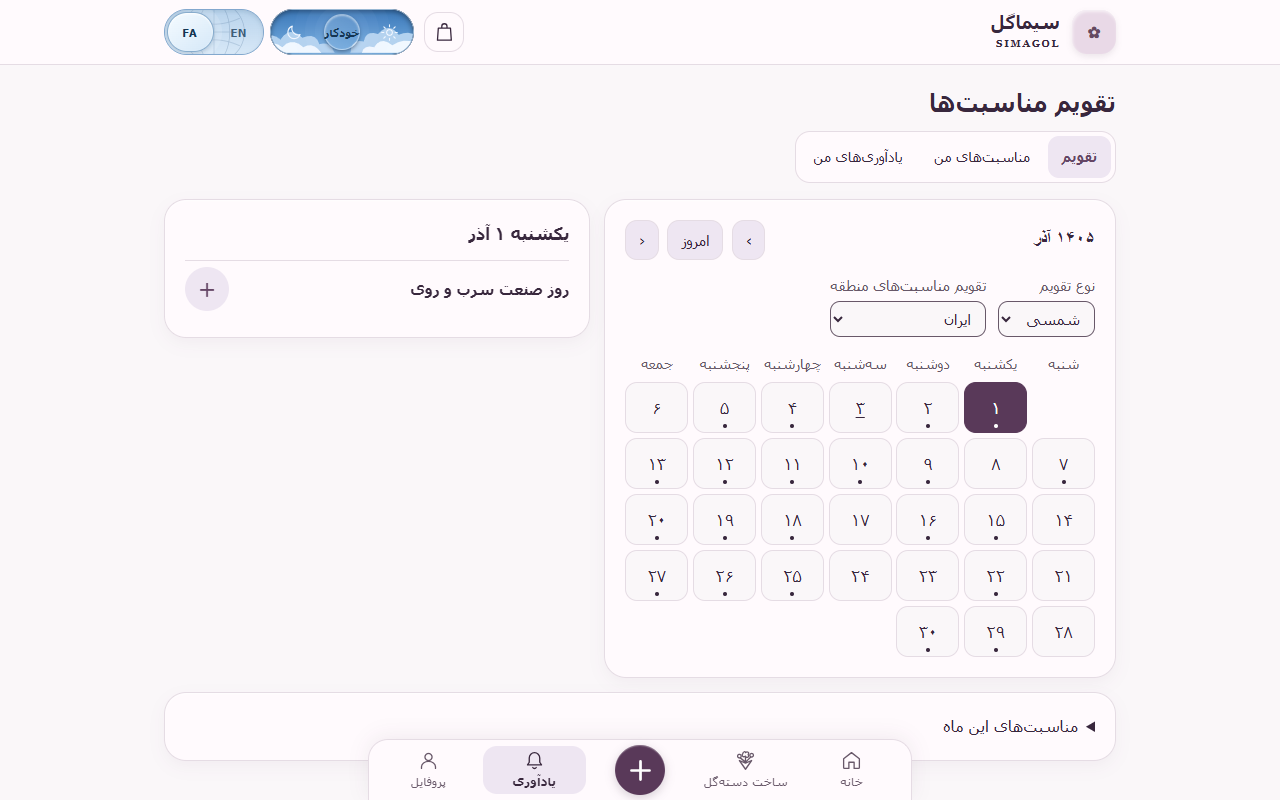
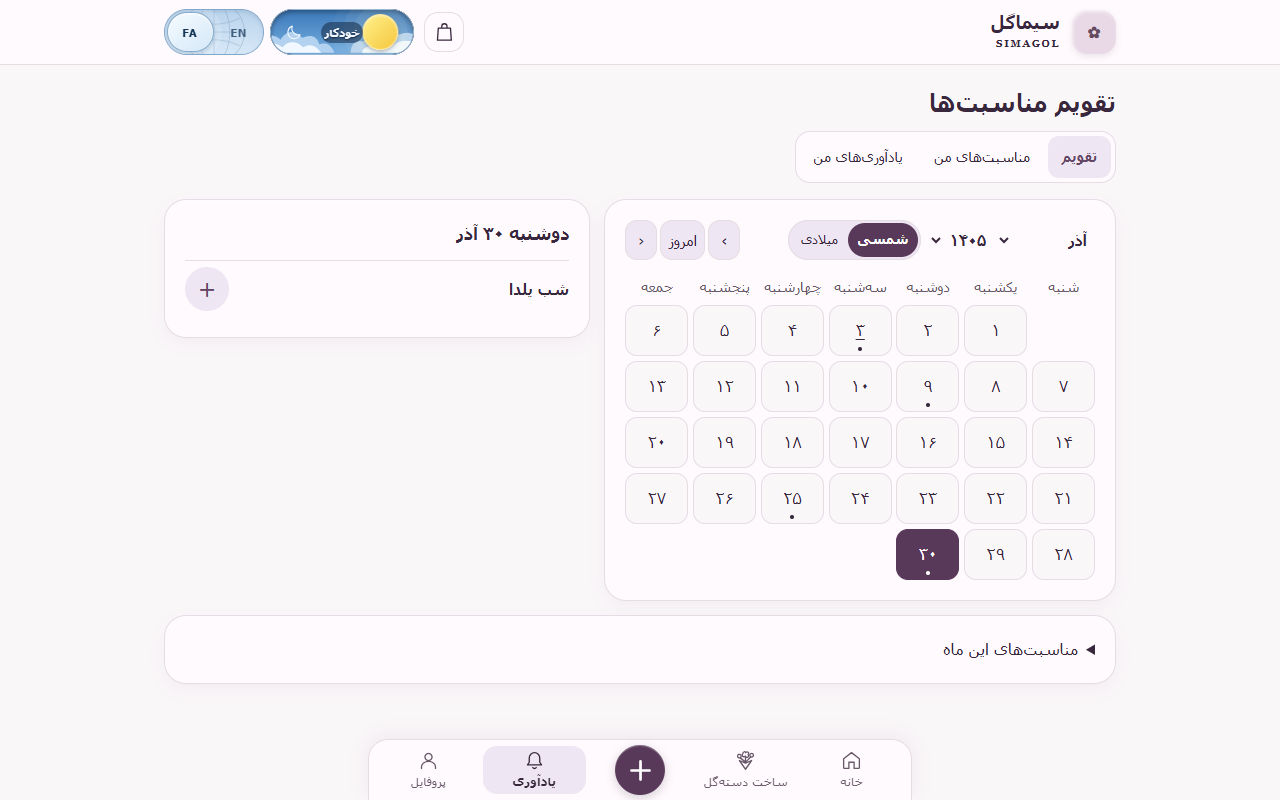
feat: streamline calendar navigation and curate Iranian occasions

diff --git a/public/planner/iran.js b/public/planner/iran.js
@@ -448,3 +448,58 @@ export const iranRules = [
 ];
 // Month lengths from the Iranian calendar tables, starting at JDN 2396005 (AH 1264).
 export const lunarYearMasks = [2711,2730,2773,1428,2986,1461,1206,2647,1323,1699,1745,2793,1386,2669,1325,3221,3658,3749,1716,2490,1339,603,1323,2645,2730,2905,1396,2426,1210,2650,3380,3761,1752,2796,1372,2670,1334,2726,2898,2985,948,2522,1370,2730,3402,3749,1874,2921,1460,2733,1622,3366,3730,3913,1876,2906,2459,1179,2379,2853,3410,3434,1389,694,2615,1179,1613,1706,2901,860,2414,1199,599,811,1429,938,1497,730,2397,683,1365,1737,1764,2922,1461,694,2454,3402,3525,1874,1957,874,2477,1357,2709,3401,3493,1458,2773,1366,2647,1323,1685,2890,2917,1387,685,1358,3223,1355,1701,1746,2777,1245,599,2349,2709,2898,2921,884,2422,1207,599,1355,1701,1746,2794,1261,621,2357,3365,3409,2985,1492,2741,1334,2711,1610,3749,1874,2985,1461,693,2646,3366,3667,1705,3412,3414,2647,1191,3143,3366,3668,3494,1383,694,2359,1175,1621,2730,2917,748,2421,1134,2614,3238,3410,3538,1493,730,1373,1195,1683,1865,1956,2994,1461,694,1626,3370,3732,3793,1768,2794,2396];
+
+// Solar dates follow the AncientIran collection in persian-calendar/events.
+// Stable IDs allow existing reminders to keep their original recurrence.
+export const heritageRules = [
+  {"id":"ir-nowruz","name":{"fa":"نوروز","en":"Nowruz"},"calendar":"Persian","month":1,"day":1,"rule":"simple"},
+  {"id":"ir-noruz-bozorg","name":{"fa":"نوروز بزرگ","en":"Great Nowruz"},"calendar":"Persian","month":1,"day":6,"rule":"simple"},
+  {"id":"ir-pir-herisht","name":{"fa":"آیین پیر هریشت","en":"Pir-e Herisht pilgrimage"},"calendar":"Persian","month":1,"day":7,"rule":"simple"},
+  {"id":"ir-skqt4","name":{"fa":"سیزدهبهدر","en":"Sizdah Bedar"},"calendar":"Persian","month":1,"day":13,"rule":"simple"},
+  {"id":"ir-farvardinegan","name":{"fa":"فروردینگان","en":"Farvardinegan"},"calendar":"Persian","month":1,"day":19,"rule":"simple"},
+  {"id":"ir-ordibeheshtegan","name":{"fa":"اردیبهشتگان","en":"Ordibeheshtegan"},"calendar":"Persian","month":2,"day":2,"rule":"simple"},
+  {"id":"ir-midyozarem","name":{"fa":"چلهٔ بهار","en":"Spring Gahanbar"},"calendar":"Persian","month":2,"day":10,"rule":"simple"},
+  {"id":"ir-panjah-bedar","name":{"fa":"پنجاهبهدر","en":"Panjah Bedar"},"calendar":"Persian","month":2,"day":19,"rule":"simple"},
+  {"id":"ir-sroytn","name":{"fa":"بزرگداشت فردوسی","en":"Ferdowsi Day"},"calendar":"Persian","month":2,"day":25,"rule":"simple"},
+  {"id":"ir-khordadegan","name":{"fa":"خردادگان","en":"Khordadegan"},"calendar":"Persian","month":3,"day":4,"rule":"simple"},
+  {"id":"ir-chak-chak","name":{"fa":"آیین پیر سبز و ستیپیر","en":"Chak Chak and Seti Pir observance"},"calendar":"Persian","month":3,"day":24,"rule":"simple"},
+  {"id":"ir-abpashun","name":{"fa":"جشن آبپاشونک","en":"Abpashunak"},"calendar":"Persian","month":3,"day":29,"rule":"simple"},
+  {"id":"ir-narestaneh","name":{"fa":"آیین پیر نارستانه","en":"Pir-e Narestaneh pilgrimage"},"calendar":"Persian","month":4,"day":2,"rule":"simple"},
+  {"id":"ir-midyoshem","name":{"fa":"گاهنبار میدیوشهم","en":"Maidyoshahem"},"calendar":"Persian","month":4,"day":8,"rule":"simple"},
+  {"id":"ir-tirgan","name":{"fa":"تیرگان","en":"Tirgan"},"calendar":"Persian","month":4,"day":10,"rule":"simple"},
+  {"id":"ir-pars-banu","name":{"fa":"آیین پارسبانو","en":"Pars Banu pilgrimage"},"calendar":"Persian","month":4,"day":13,"rule":"simple"},
+  {"id":"ir-amordadegan","name":{"fa":"امردادگان","en":"Amordadegan"},"calendar":"Persian","month":5,"day":3,"rule":"simple"},
+  {"id":"ir-summer-chelleh","name":{"fa":"چلهٔ تابستان","en":"Summer Chelleh"},"calendar":"Persian","month":5,"day":6,"rule":"simple"},
+  {"id":"ir-naraki","name":{"fa":"آیین پیر نارکی","en":"Pir-e Naraki pilgrimage"},"calendar":"Persian","month":5,"day":12,"rule":"simple"},
+  {"id":"ir-shahrivargan","name":{"fa":"شهریورگان","en":"Shahrivargan"},"calendar":"Persian","month":5,"day":30,"rule":"simple"},
+  {"id":"ir-khazan","name":{"fa":"جشن خزان","en":"Khazan"},"calendar":"Persian","month":6,"day":3,"rule":"simple"},
+  {"id":"ir-paitishahem","name":{"fa":"گاهنبار پتیهشهیم","en":"Paitishahem"},"calendar":"Persian","month":6,"day":21,"rule":"simple"},
+  {"id":"ir-mehregan","name":{"fa":"مهرگان","en":"Mehregan"},"calendar":"Persian","month":7,"day":10,"rule":"simple"},
+  {"id":"ir-abangan","name":{"fa":"آبانگان","en":"Abangan"},"calendar":"Persian","month":8,"day":4,"rule":"simple"},
+  {"id":"ir-cyrus","name":{"fa":"روز کوروش بزرگ","en":"Cyrus the Great Day"},"calendar":"Persian","month":8,"day":7,"rule":"simple"},
+  {"id":"ir-paeizaneh","name":{"fa":"جشن پاییزانه","en":"Autumn festival"},"calendar":"Persian","month":8,"day":9,"rule":"simple"},
+  {"id":"ir-galeshi","name":{"fa":"جشن گالشی","en":"Galeshi festival"},"calendar":"Persian","month":8,"day":21,"rule":"simple"},
+  {"id":"ir-azargan","name":{"fa":"آذرگان","en":"Azargan"},"calendar":"Persian","month":9,"day":3,"rule":"simple"},
+  {"id":"ir-deygan-one","name":{"fa":"دیگان نخست","en":"First Deygan"},"calendar":"Persian","month":9,"day":25,"rule":"simple"},
+  {"id":"ir-ffgm1b","name":{"fa":"شب یلدا","en":"Yalda Night"},"calendar":"Persian","month":9,"day":30,"rule":"simple"},
+  {"id":"ir-deygan-two","name":{"fa":"دیگان دوم","en":"Second Deygan"},"calendar":"Persian","month":10,"day":2,"rule":"simple"},
+  {"id":"ir-sir-sor","name":{"fa":"جشن سیر و سور","en":"Sir-o-Sur"},"calendar":"Persian","month":10,"day":8,"rule":"simple"},
+  {"id":"ir-deygan-three","name":{"fa":"دیگان سوم","en":"Third Deygan"},"calendar":"Persian","month":10,"day":9,"rule":"simple"},
+  {"id":"ir-deygan-four","name":{"fa":"دیگان چهارم","en":"Fourth Deygan"},"calendar":"Persian","month":10,"day":17,"rule":"simple"},
+  {"id":"ir-bahmangan","name":{"fa":"بهمنگان","en":"Bahmangan"},"calendar":"Persian","month":10,"day":26,"rule":"simple"},
+  {"id":"ir-nosareh","name":{"fa":"نوسره","en":"Nosareh"},"calendar":"Persian","month":10,"day":29,"rule":"simple"},
+  {"id":"ir-midwinter","name":{"fa":"جشن میانهٔ زمستان","en":"Midwinter festival"},"calendar":"Persian","month":11,"day":9,"rule":"simple"},
+  {"id":"ir-sadeh","name":{"fa":"سده","en":"Sadeh"},"calendar":"Persian","month":11,"day":10,"rule":"simple"},
+  {"id":"ir-esfandegan","name":{"fa":"سپندارمذگان","en":"Sepandarmazgan"},"calendar":"Persian","month":11,"day":29,"rule":"simple"},
+  {"id":"ir-goldan","name":{"fa":"جشن گلدان","en":"Goldan festival"},"calendar":"Persian","month":12,"day":14,"rule":"simple"},
+  {"id":"ir-chaharshanbe-suri","name":{"fa":"چهارشنبهسوری","en":"Chaharshanbe Suri"},"calendar":"Persian","month":12,"weekday":4,"offset":-1,"rule":"last weekday of month"},
+  {"id":"ir-rnfjva","name":{"fa":"نوروز","en":"Nowruz"},"calendar":"Persian","month":1,"day":2,"rule":"simple"},
+  {"id":"ir-rnfjva-1-3","name":{"fa":"نوروز","en":"Nowruz"},"calendar":"Persian","month":1,"day":3,"rule":"simple"},
+  {"id":"ir-rnfjva-1-4","name":{"fa":"نوروز","en":"Nowruz"},"calendar":"Persian","month":1,"day":4,"rule":"simple"},
+  {"id":"ir-wv38c9","name":{"fa":"روز پدر","en":"Father's Day"},"calendar":"Hijri","month":7,"day":13,"rule":"simple"},
+  {"id":"ir-agc6u0","name":{"fa":"روز مادر","en":"Mother's Day"},"calendar":"Hijri","month":6,"day":20,"rule":"simple"},
+  {"id":"ir-1rnj1yw","name":{"fa":"روز جوان","en":"Youth Day"},"calendar":"Hijri","month":8,"day":11,"rule":"simple"},
+  {"id":"ir-majnsg","name":{"fa":"روز پرستار","en":"Nurses' Day"},"calendar":"Hijri","month":5,"day":5,"rule":"simple"},
+  {"id":"ir-v9ozm6","name":{"fa":"روز جانباز","en":"Veterans' Day"},"calendar":"Hijri","month":8,"day":4,"rule":"simple"},
+  {"id":"ir-imu9zk","name":{"fa":"روز دختر","en":"Girls' Day"},"calendar":"Hijri","month":11,"day":1,"rule":"simple"}
+];

diff --git a/public/planner/app.js b/public/planner/app.js
@@ -133,7 +133,7 @@ async function refreshGreeting(){
   accountTheme(me?.prefs);if(me?.prefs?.lang)lang=me.prefs.lang;
   try{
     model=id?loadPlanner(localStorage,new Date(),id):newPlanner();
-    if(model.region==='IN')model.region='IR';
+
     if(info){
       blocked='';
       for(const pending of model.outbox||[]){
@@ -221,7 +221,10 @@ function appearance() {
   $('#previous').textContent=lang==='fa'?'›':'‹'; $('#previous').ariaLabel=text('previous');
   $('#next').textContent=lang==='fa'?'‹':'›'; $('#next').ariaLabel=text('next');
   $('.planner-views').setAttribute('aria-label',text('title'));
-  $('#calendar-system').value=calendarSystem();$('#prefs').hidden=!owner;
+  $('#calendar-system').setAttribute('aria-label',text('system'));
+  $('#jump-month').ariaLabel=lang==='fa'?'ماه':'Month';
+  $('#jump-year').ariaLabel=lang==='fa'?'سال':'Year';
+  $('#prefs').hidden=!owner;
   $('#sms-settings').hidden=!verified;$('#sms-phone').hidden=!smsAvailable;$('#sms-help').hidden=smsAvailable;
   if(!verified||!smsAvailable)$('#sms-code').hidden=true;$('#verified').textContent=phone;
   $('#legacy').hidden=!verified||!localStorage.getItem('simagol.planner.v1')||!!localStorage.getItem('simagol.planner.imported');
@@ -250,14 +253,40 @@ function holidayRow(h,includeDate=true) {
   return '<article class="occasion-line"><div><strong>'+escape(title(h))+'</strong>'+
     (includeDate?'<small>'+escape(dateText(h.date))+'</small>':'')+'</div><button type="button" class="occasion-add" data-'+action+'="'+escape(value)+'" aria-label="'+escape(label)+'" title="'+escape(label)+'">'+(existing?'✓':'+')+'</button></article>';
 }
+const rangeStart='1900-01-01',rangeEnd='2100-12-31';
+function updateMonthControls(y,m,system){
+  const [minYear,minMonth]=calendarParts(rangeStart,system),[maxYear,maxMonth]=calendarParts(rangeEnd,system);
+  const months=$('#jump-month'),years=$('#jump-year');
+  const firstMonth=y===minYear?minMonth:1,lastMonth=y===maxYear?maxMonth:12;
+  const monthKey=[lang,system,firstMonth,lastMonth].join('-');
+  if(months.dataset.key!==monthKey){
+    months.replaceChildren();
+    for(let n=firstMonth;n<=lastMonth;n++)months.add(new Option(dateText(monthStart(y,n,system),{month:'long'}),n));
+    months.dataset.key=monthKey;
+  }
+  const yearKey=lang+system;
+  if(years.dataset.key!==yearKey){
+    years.replaceChildren();
+    for(let n=minYear;n<=maxYear;n++)years.add(new Option(number(n).replace(/[٬,]/g,''),n));
+    years.dataset.key=yearKey;
+  }
+  months.value=m;years.value=y;
+  $('#calendar-system input[value="'+system+'"]').checked=true;
+}
+function jumpTo(y,m){
+  const system=calendarSystem(),day=calendarParts(selected,system)[2];
+  const date=addDays(monthStart(y,m,system),Math.min(day,monthLength(y,m,system))-1);
+  displayDate(date<rangeStart?rangeStart:date>rangeEnd?rangeEnd:date);
+  calendar();
+}
 function calendar() {
   const system=calendarSystem();
   const [y,m]=calendarParts(selected,system);
   const first=monthStart(y,m,system),last=monthLength(y,m,system);
   const end=addDays(first,last-1),gregorianMonths=new Set([first.slice(0,7),end.slice(0,7)]);
-  const rows=[...gregorianMonths].flatMap(key=>{const [year,month]=key.split('-').map(Number);return eventsInMonth({year,month,region:model.region,events:model.entries});}).filter(r=>r.date>=first&&r.date<=end);
+  const rows=[...gregorianMonths].flatMap(key=>{const [year,month]=key.split('-').map(Number);return eventsInMonth({year,month,region:'IR',events:model.entries});}).filter(r=>r.date>=first&&r.date<=end);
   const today=localDate(new Date(),model.timeZone);
-  $('#region').value=model.region;
+  updateMonthControls(y,m,system);
   $('#month-title').textContent=dateText(first,{month:'long',year:'numeric'});
   $('#previous').disabled=first<='1900-01-01';$('#next').disabled=end>='2100-12-31';
   const start=system==='persian'?6:0;
@@ -268,7 +297,7 @@ function calendar() {
     const date=addDays(first,day-1);
     const count=rows.filter(x=>x.date===date && !(x.source==='holiday' && model.entries.some(e=>e.holidayId===x.id))).length;
     const label=dateText(date)+(count?' · '+number(count)+' '+text('dailyEvents'):'');
-    cells.push('<button type="button" data-day="'+date+'" aria-label="'+escape(label)+'" aria-pressed="'+(date===selected)+'" '+
+    cells.push('<button type="button" '+(date<rangeStart||date>rangeEnd?'disabled ':'')+'data-day="'+date+'" aria-label="'+escape(label)+'" aria-pressed="'+(date===selected)+'" '+
       (date===today?'aria-current="date" ':'')+(count?'class="has-events"':'')+'>'+number(day)+'</button>');
   }
   $('#days').innerHTML=cells.join('');
@@ -278,7 +307,7 @@ function calendar() {
   $('#regional').innerHTML=rows.filter(x=>x.source==='holiday').map(h=>holidayRow(h)).join('')||text('noDay');
   $('#sheet-title').textContent=$('#selected-title').textContent;
   $('#sheet-events').innerHTML=$('#selected').innerHTML;
-  $('#coverage').textContent=model.region==='IR'&&end>'2027-03-20'?text('coverage'):'';
+  $('#coverage').textContent=end>'2027-03-20'?text('coverage'):'';
 
 }
 function inbox() {
@@ -344,14 +373,14 @@ function scanAlerts() {
   if (commit(s=>collectAlerts(s,new Date(),dueAlerts)) && count!==model.inbox.length) inbox();
 }
 function moveMonth(delta) {
-  const sys=calendarSystem(),[y,m]=calendarParts(selected,sys);displayDate(monthStart(y,m+delta,sys));calendar();
+  const sys=calendarSystem(),[y,m]=calendarParts(selected,sys);const [nextYear,nextMonth]=calendarParts(monthStart(y,m+delta,sys),sys);jumpTo(nextYear,nextMonth);
 }
 const drawControls=appearanceControls(async prefs=>{
   lang=prefs.lang;appearance();sync();
   if(verified)try{await api('profile','POST',{prefs});}catch(e){announce(e.message);}
 });
 $('#calendar-system').onchange=e=>{localStorage.setItem('simagol.calendar',e.target.value);render();};
-$('#region').onchange=e=>{model.region=e.target.value;if(owner)commit(s=>({...s,region:e.target.value}));calendar();};
+$('#jump-month').onchange=$('#jump-year').onchange=()=>jumpTo(Number($('#jump-year').value),Number($('#jump-month').value));
 let activeView='calendar';
 let plannerReady=false;
 function displayView(){

diff --git a/public/planner/planner.css b/public/planner/planner.css
@@ -13,8 +13,7 @@
 .section-top, .actions, .month-actions, .row-actions { display: flex; align-items: center; gap: .55rem; flex-wrap: wrap; }
 .section-top { justify-content: space-between; margin-block-end: .8rem; }
 .section-top h2 { margin: 0; }
-.region-label, #prefs label { display: grid; gap: .25rem; color: var(--muted); font-size: .91rem; }
-.region-label { width: fit-content; margin-block: .75rem; }
+#prefs label { display: grid; gap: .25rem; color: var(--muted); font-size: .91rem; }
 select, #prefs input { font: inherit; color: var(--text); background: var(--bg); border: 1px solid var(--muted); border-radius: 10px; padding: .45rem .65rem; }
 .minor, .month-actions button, .row-actions button, .row-actions a {
   display: inline-flex; align-items: center; justify-content: center; min-height: 40px;
@@ -66,8 +65,6 @@ select, #prefs input { font: inherit; color: var(--text); background: var(--bg);
 .regional-list {grid-column:1/-1;margin-bottom:20px!important;}
 .day-summary {position:sticky;top:12px;max-height:65vh;overflow:auto;}
 .day-summary h2,#day-sheet h2 {font-family:inherit;font-size:1.05rem;}
-.calendar-options {display:flex;align-items:end;gap:12px;flex-wrap:wrap;}
-.calendar-options .region-label {margin:0;}
 .occasion-line {display:flex;align-items:center;justify-content:space-between;gap:12px;border-top:1px solid var(--line);padding:6px 0;min-height:48px;}
 .occasion-line strong {font-size:.94rem;font-weight:550;}
 .occasion-line small {display:block;color:var(--muted);}
@@ -76,7 +73,19 @@ select, #prefs input { font: inherit; color: var(--text); background: var(--bg);
 @media(max-width:760px){
   .planner-layout {grid-template-columns:minmax(0,1fr);}
   .day-summary {position:static;max-height:none;}
-  .calendar-options {gap:8px;}
   .planner-views a {padding:0 .6rem;}
   #day-sheet[open] {position:fixed;inset:auto 0 0;margin:0 auto;width:100%;border-radius:20px 20px 0 0;padding-bottom:calc(18px + env(safe-area-inset-bottom));}
 }
+
+.calendar-toolbar {display:flex;align-items:center;flex-wrap:wrap;gap:4px 8px;}
+.calendar-jump,.calendar-toolbar .month-actions {display:flex;align-items:center;gap:3px;}
+.calendar-jump select {min-height:40px;max-width:8.2em;padding:4px;border:0;background:var(--surface);font-family:inherit;font-size:.91rem;font-weight:600;line-height:1.4;}
+.calendar-toolbar .month-actions {margin-inline-start:auto;flex-wrap:nowrap;}
+.calendar-toolbar .month-actions button {min-width:32px;padding:.2rem .45rem;}
+#calendar-system {display:inline-flex;min-width:0;margin:0;padding:2px;border:1px solid var(--line);border-radius:99px;background:var(--hero);}
+#calendar-system label {position:relative;display:block;margin:0;cursor:pointer;}
+#calendar-system input {position:absolute;opacity:0;inset:0;width:100%;height:100%;margin:0;cursor:pointer;}
+#calendar-system span {display:grid;place-items:center;padding:0 .6rem;min-height:34px;border-radius:99px;font-size:.8rem;}
+#calendar-system input:checked+span {background:var(--accent);color:white;font-weight:bold;}
+#calendar-system input:focus-visible+span {outline:2px solid var(--plum);outline-offset:2px;}
+.calendar-sr {position:absolute;width:1px;height:1px;overflow:hidden;clip-path:inset(50%);}

diff --git a/public/planner/index.html b/public/planner/index.html
@@ -51,10 +51,13 @@
     <p id="status" role="status" aria-live="polite"></p>
     <div class="planner-layout" data-view="calendar">
       <section class="sheet calendar" id="month" tabindex="-1" aria-labelledby="month-title">
-        <div class="section-top"><h2 id="month-title"></h2><div class="month-actions"><button id="previous"></button><button id="today" data-label="today"></button><button id="next"></button></div></div>
-        <div class="calendar-options"><label class="region-label"><span data-label="system"></span><select id="calendar-system"><option value="persian" data-label="solar"></option><option value="gregory" data-label="gregorian"></option></select></label>
-        <label class="region-label"><span data-label="region"></span><select id="region"><option value="IR" data-label="iran"></option><option value="US" data-label="us"></option></select></label>
-        </div><div id="weekdays" aria-hidden="true" class="weekdays"></div><div id="days" class="days"></div>
+        <div class="calendar-toolbar">
+          <h2 id="month-title" class="calendar-sr" aria-live="polite"></h2>
+          <div class="calendar-jump"><select id="jump-month" aria-label="ماه"></select><select id="jump-year" aria-label="سال"></select></div>
+          <fieldset id="calendar-system" aria-label="نوع تقویم"><label><input type="radio" name="system" value="persian"><span data-label="solar"></span></label><label><input type="radio" name="system" value="gregory"><span data-label="gregorian"></span></label></fieldset>
+          <div class="month-actions"><button id="previous"></button><button id="today" data-label="today"></button><button id="next"></button></div>
+        </div>
+        <div id="weekdays" aria-hidden="true" class="weekdays"></div><div id="days" class="days"></div>
       </section>
       <section class="sheet day-summary" aria-labelledby="selected-title"><h2 id="selected-title"></h2><div id="selected"></div></section>
       <details class="sheet regional-list"><summary data-label="regionalList"></summary><p id="coverage" class="hint"></p><div id="regional"></div></details>

diff --git a/public/planner/dates.js b/public/planner/dates.js
@@ -4,9 +4,13 @@ const DAY = 86400000;
 const pad = n => String(n).padStart(2, '0');
 const isoDay = (year, month, day) => `${year}-${pad(month)}-${pad(day)}`;
 
-import {iranRules,lunarYearMasks} from './iran.js';
+import {iranRules,lunarYearMasks,heritageRules} from './iran.js';
 import {calendarParts,addDays,monthStart,monthLength} from '../components/calendar.js';
-const iran = iranRules.map(rule=>({...rule,region:'IR',name:{fa:rule.title,en:rule.title}}));
+const featuredIds=new Set(heritageRules.map(rule=>rule.id));
+const legacyIran = iranRules.map(rule=>({...rule,region:'IR',name:{fa:rule.title,en:rule.title}}));
+const oldById=new Map(legacyIran.map(rule=>[rule.id,rule]));
+const iran = heritageRules.map(rule=>({...oldById.get(rule.id),...rule,region:'IR'}))
+  .concat(legacyIran.filter(rule=>!featuredIds.has(rule.id)));
 const lunarMonths=[];
 let stamp=(2396005-2440588)*DAY;
 for(const [year,mask] of lunarYearMasks.entries()){
@@ -115,6 +119,7 @@ export function eventsInMonth({ year, month, region, events = [], holidayIds }) 
   }
   const rows = [];
   for (const holiday of HOLIDAYS) {
+    if(region==='IR' && !featuredIds.has(holiday.id))continue;
     if (holiday.region!==region || (holidayIds && !holidayIds.includes(holiday.id)))continue;
     for(const date of holidayDates(holiday.id,year)){
       if(Number(date.slice(5,7))===month)rows.push({...holiday,holidayId:holiday.id,date,source:'holiday'});
@@ -122,6 +127,7 @@ export function eventsInMonth({ year, month, region, events = [], holidayIds }) 
   }
   const prefix = `${year}-${pad(month)}-`;
   for (const event of events) {
+    if(region==='IR' && event.holidayId && !featuredIds.has(event.holidayId))continue;
     for (const date of occurrences(event,year)) if (date.startsWith(prefix)) rows.push({ ...event, date, source: 'custom' });
   }
   return rows.sort((a, b) => a.date.localeCompare(b.date) || a.id.localeCompare(b.id));

diff --git a/tests/member-planner.test.js b/tests/member-planner.test.js
@@ -14,7 +14,14 @@ test('Jalali inputs, leap Esfand, annual recurrence and Iranian lunar alignment'
   const events=[{id:'a',kind:'personal',annual:true,date:'2024-03-20',daysBefore:1,calendar:'persian'}];
   assert.equal(dueAlerts({events,timeZone:'UTC',from:'2025-03-19',to:'2025-03-21'})[0].date,'2025-03-21');
   const rows=eventsInMonth({year:2026,month:3,region:'IR'}).filter(r=>r.date==='2026-03-21');
-  assert.ok(rows.some(r=>r.id==='ir-nowruz')&&rows.some(r=>r.calendar==='Hijri'&&r.holiday));
+  assert.deepEqual(rows.map(r=>r.id),['ir-nowruz']);
+  const fullYear=Array.from({length:13},(_,i)=>eventsInMonth({year:i<10?2026:2027,month:(i+2)%12+1,region:'IR'})).flat()
+    .filter(r=>r.date>='2026-03-21'&&r.date<='2027-03-20');
+  assert.deepEqual(new Set(fullYear.filter(r=>r.calendar==='Hijri').map(r=>r.name.fa)),
+    new Set(['روز پدر','روز مادر','روز جوان','روز پرستار','روز جانباز','روز دختر']));
+  assert.ok(fullYear.some(r=>r.name.fa==='روز پدر'&&r.date==='2026-12-23'));
+  assert.ok(fullYear.some(r=>r.name.fa==='چهارشنبهسوری'&&r.date==='2027-03-16'));
+  assert.ok(!fullYear.some(r=>r.calendar==='Gregorian'));
 });
 
 test('account isolation, verified opt-in and deduplicated scheduled SMS',async()=>{

diff --git a/tests/dates.test.js b/tests/dates.test.js
@@ -10,8 +10,8 @@ test('Iran resolves solar Hijri dates independently for each Gregorian year', ()
   assert.equal(holidayDate('ir-doctors', 2024), '2024-08-22');
   assert.equal(holidayDate('ir-doctors', 2025), '2025-08-23');
   const august = eventsInMonth({region:'IR',year:2025,month:8});
-  assert.ok(august.some(h=>h.id==='ir-doctors' && h.date==='2025-08-23'));
-  assert.equal(HOLIDAYS.filter(h => h.region === 'IR').length, 445);
+  assert.ok(!august.some(h=>h.id==='ir-doctors'));
+  assert.ok(august.some(h=>h.name.fa==='شهریورگان'));
   const events = [{ id: 'norooz', name: 'Send flowers', date: '2024-03-20', kind: 'occasion', holidayId: 'ir-nowruz' }];
   const alerts = dueAlerts({ events, timeZone:'Asia/Tehran', from:'2025-03-17T00:00Z', to:'2025-03-21T00:00Z' });
   assert.deepEqual(alerts.map(x => x.dueAt), ['2025-03-18T05:30:00.000Z','2025-03-20T05:30:00.000Z']);

diff --git a/scripts/build.js b/scripts/build.js
@@ -20,7 +20,7 @@ for(const path of files(staging)){
 }
 const version=digest.digest('hex').slice(0,16);
 const worker=join(staging,'public','planner','sw.js');
-writeFileSync(worker,readFileSync(worker,'utf8').replace('simagol-planner-shell-v6','simagol-planner-'+version));
+writeFileSync(worker,readFileSync(worker,'utf8').replace('simagol-planner-shell-v7','simagol-planner-'+version));
 const release=join(releaseRoot,'simagol-'+version);
 if(!existsSync(release)) renameSync(staging,release);
 else {

diff --git a/public/planner/sw.js b/public/planner/sw.js
@@ -1,5 +1,5 @@
 // Bump this version when changing an asset in a source deployment.
-const cacheName = 'simagol-planner-shell-v6';
+const cacheName = 'simagol-planner-shell-v7';
 const shell = '/planner/';
 const assets = [
   shell, '/planner/index.html', '/planner/manifest.json', '/planner/planner.css',

diff --git a/docs/occasions.md b/docs/occasions.md
@@ -6,13 +6,13 @@ A birthday saved as February 29 stays a date in the member's calendar. The plann
 
 The default calendar is Solar Hijri in both UI languages. Changing the display to Gregorian preserves the saved civil date. Birthday recurrence follows the calendar used at creation. Old personal entries retain their Gregorian anniversaries.
 
-The bundled Iran list includes 445 official observance rules in the 1405 edition. The month view combines solar dates, Iranian-observed lunar dates, fixed Gregorian dates and weekday-based observances. A day can contain several occasions. Historical one-off rules retain their year. The confirmed Iranian lunar table is limited to the end of 1405. Update the source rules and month lengths for the next official edition before scheduling lunar occasions beyond that date. US observances remain available in the regional selector. Older saved India entries retain their recurrence rules.
+Both display modes show the Iranian heritage collection. Solar festival dates follow the AncientIran dataset, including its convention for traditional month-name festivals. Nowruz spans the first four days of Farvardin. Chaharshanbe Suri starts on the eve of the last Wednesday of Esfand. The six lunar presets are Father’s Day, Mother’s Day, Youth Day, Nurses’ Day, Veterans’ Day and Girls’ Day. Confirmed Iranian lunar dates extend through 1405. Previously saved reminders retain their recurrence and remain accessible in My occasions.
 
 Sources: [Iranian Calendar Center](https://calendar.ut.ac.ir/documents/2139738/7092644/Calendar-1405.pdf), [CC0 event definitions](https://github.com/persian-calendar/events), [Iranian lunar month records](https://github.com/persian-calendar/calendar/blob/main/src/commonMain/kotlin/io/github/persiancalendar/calendar/islamic/IranianIslamicDateConverter.kt).
 
 ## Scheduling policy
 
-1. Store dates as Gregorian YYYY-MM-DD strings. Keep the recurring holiday's stable ID for saved regional occasions. May 10, 2026 and May 9, 2027 both match US Mother's Day. A member who saved that occasion sees the new date each year, even after switching the region displayed in the calendar.
+1. Store dates as Gregorian YYYY-MM-DD strings. Keep the recurring holiday's stable ID for saved regional occasions. May 10, 2026 and May 9, 2027 both match US Mother's Day. A member who saved that occasion sees the new date each year, even after switching calendar systems.
 2. A saved personal entry uses its one selected daysBefore value (default one day). A saved occasion uses exactly three days and one day. Regional suggestions alone do not create notices. Two recipients with separate saved entries can receive separate reminders for the same holiday.
 3. Subtract the lead in **local calendar days**, then resolve the member's chosen HH:mm time, default 09:00. For example, a March 9 event in New York with a two-day lead uses March 7 at 09:00. Across a DST transition that interval can differ from 48 elapsed hours.
 4. During a fall-back overlap use the earlier of the two possible instants. During a spring-forward gap move forward by the gap size. For example, a nonexistent New York 02:30 becomes 03:30. This also handles half-hour offsets and countries that skipped a whole calendar day.

diff --git a/docs/planner.md b/docs/planner.md
@@ -24,7 +24,7 @@ Use **http://localhost:3000/planner/** on the development computer. For testing 
 
 - Choose a date in the month view, then add a birthday, anniversary, personal custom date, or flower-order occasion. Record a recipient, note or florist URL. The entry list provides edit and delete controls.
 - Personal dates have a configurable lead in days. One day and one week correspond to 1 and 7. A flower-order occasion always generates both a three-day notice and a one-day notice.
-- Select a region and choose a suggested occasion. The preset retains its rule, so a saved US Mother's Day moves to the second Sunday of May in each new year. Iran and US presets and their sources are documented in [occasions.md](occasions.md).
+- Choose a month, year and day in the calendar. The Solar Hijri / Gregorian switch preserves the selected day and the Iranian occasion list. Use the plus next to an occasion to save it. See [calendar rules](occasions.md).
 - Civil dates are stored as Gregorian YYYY-MM-DD. Default reminder time is 09:00 in the detected device zone. You can pin a different IANA zone, such as Asia/Tehran. A February 29 annual entry uses February 28 in non-leap years. For a daylight-saving gap the time moves forward by the gap. For a repeated clock time the earlier instant wins.
 - The server stores each member’s events and notes. A scoped browser cache supports offline access after sign-in. Legacy, unowned entries can be imported explicitly by their owner. On some devices the Home Screen installation has separate storage from a browser tab. Add the app to the Home Screen before entering your real dates there.
 - While visible, the planner checks every 30 seconds. Opening it later adds missed reminders to the inbox. A stable identifier per entry, occurrence and lead prevents duplicate inbox rows.
